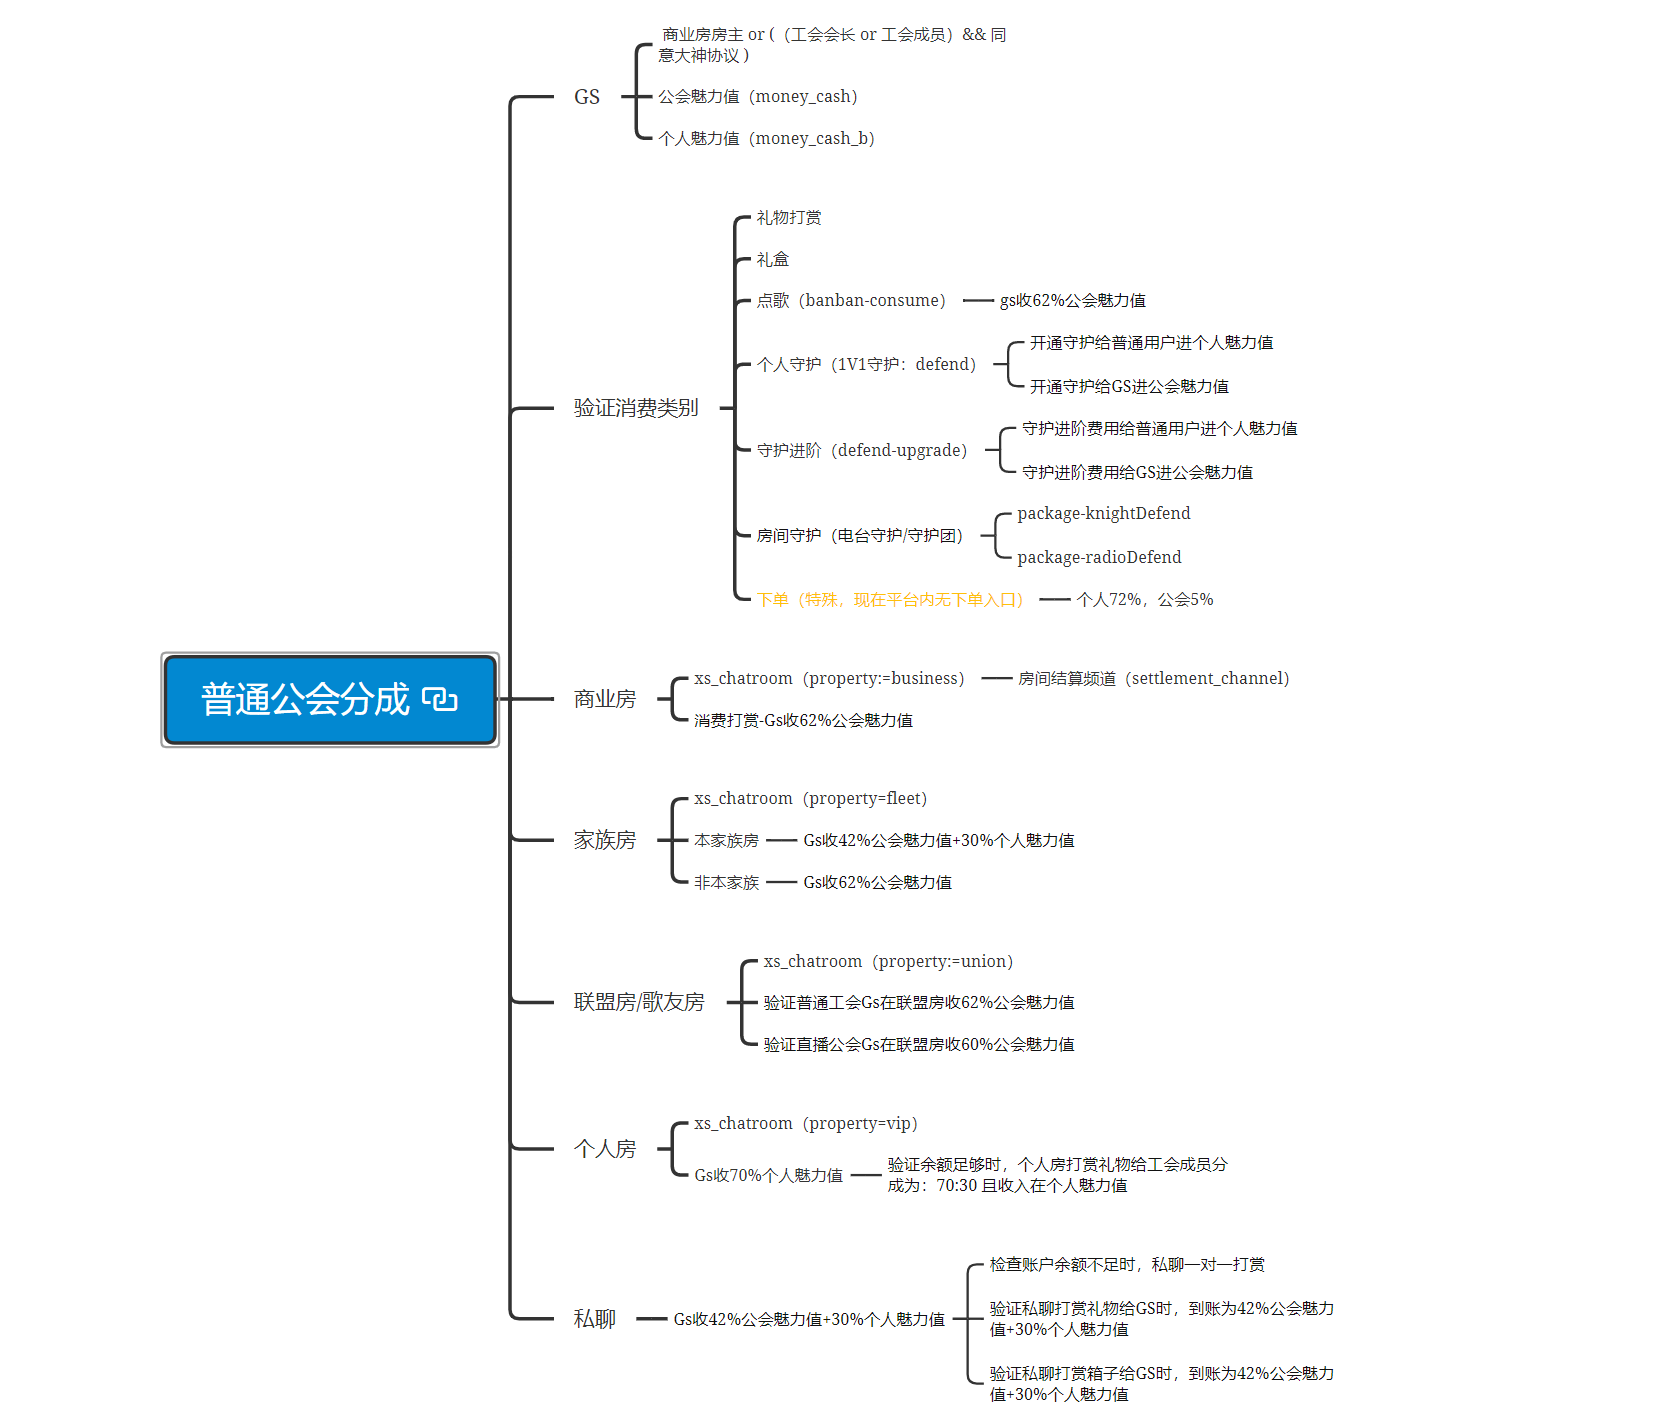
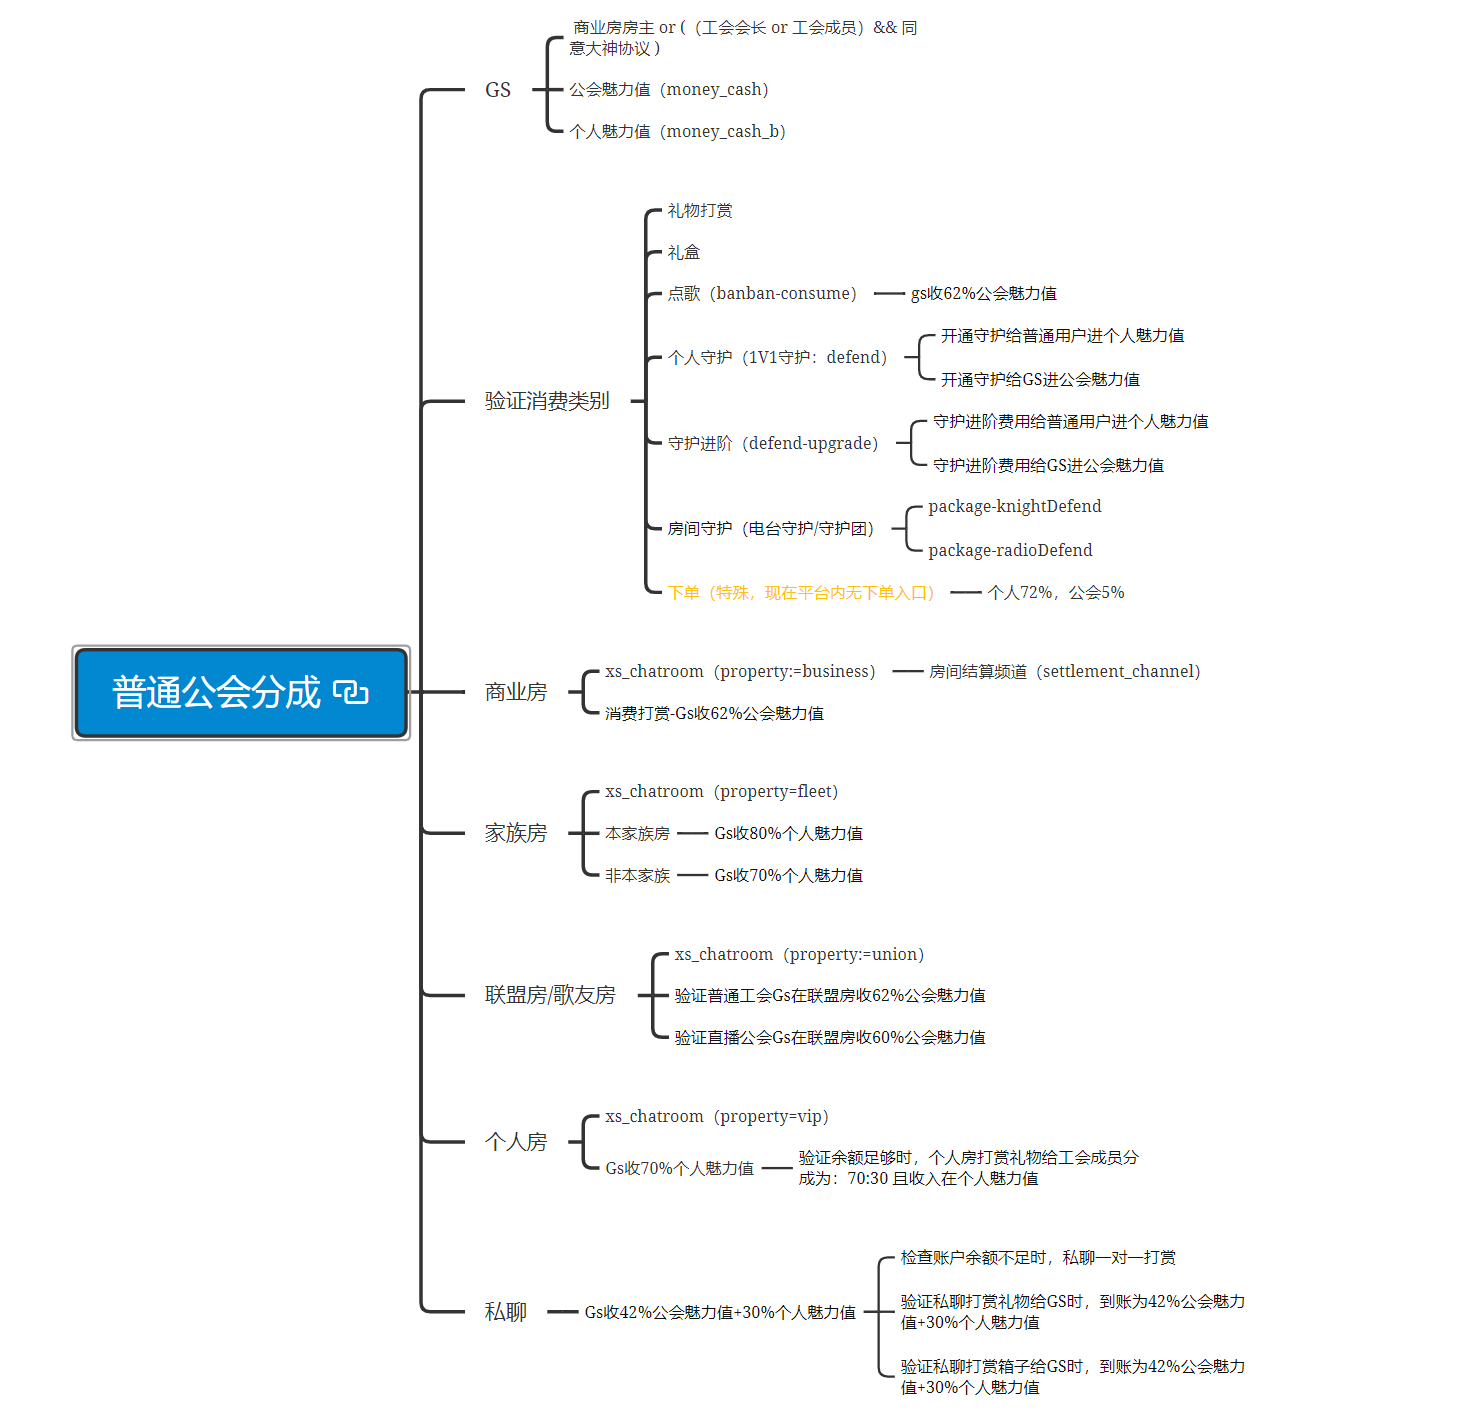
'分成体系优化'

Changed region(s): [[0.0308, 0.0, 0.8624, 0.9951], [0.3388, 0.7774, 0.77, 0.8396]]

diff --git a/case/test_pay_fleetRoom.py b/case/test_pay_fleetRoom.py
@@ -16,16 +16,15 @@ class TestPayCreate(unittest.TestCase):
     fleet_rid = config.bb_user['fleetRid']  # 本家族房
     pack_cal_uid = config.bb_user['pack_cal_uid']  # 直播公会gs
 
-    @unittest.skip
     def test_01_sameFleetRoomLiveGsRate(self, des='家族房打赏直播公会gs场景'):
         """
         用例描述：
-        tdr：同家族房内直播公会成员礼物打赏到账70%个人魅力值
+        tdr：同家族房内直播公会成员礼物打赏到账80%个人魅力值
         脚本步骤：
         1.构造打赏者和被打赏者数据
         2.房间打赏（打赏1000分）
         3.校验接口状态和返回值数据
-        4.检查被打赏者余额，预期为：1000 * 0.7 = 700(money_cash_b)
+        4.检查被打赏者余额，预期为：1000 * 0.8 = 800(money_cash_b)
         5.检查打赏者余额，预期为：1000 - 1000 = 0
         """
         mysql.updateMoneySql(config.payUid, money=1000)
@@ -36,7 +35,7 @@ class TestPayCreate(unittest.TestCase):
         res = post_request_session(config.pay_url, data)
         assert_code(res['code'])
         assert_body(res['body'], 'success', 1, reason(des, res))
-        assert_equal(mysql.selectUserInfoSql('single_money', self.pack_cal_uid, money_type='money_cash_b'), 300)
+        assert_equal(mysql.selectUserInfoSql('single_money', self.pack_cal_uid), 800)
         assert_equal(mysql.selectUserInfoSql('sum_money', self.pack_cal_uid), 800)
         assert_equal(mysql.selectUserInfoSql('sum_money', config.payUid), 0)
         case_list_b[des] = result
@@ -61,7 +60,7 @@ class TestPayCreate(unittest.TestCase):
         res = post_request_session(config.pay_url, data)
         assert_code(res['code'])
         assert_body(res['body'], 'success', 1, reason(des, res))
-        assert_equal(mysql.selectUserInfoSql('single_money', self.pack_cal_uid, money_type='money_cash'), 700)
+        assert_equal(mysql.selectUserInfoSql('single_money', self.pack_cal_uid), 700)
         assert_equal(mysql.selectUserInfoSql('sum_money', self.pack_cal_uid), 700)
         assert_equal(mysql.selectUserInfoSql('sum_money', config.payUid), 0)
         case_list_b[des] = result
@@ -69,12 +68,12 @@ class TestPayCreate(unittest.TestCase):
     def test_03_sameFleetRoomNormalGsRate(self, des='家族房打赏普通公会gs场景'):
         """
         用例描述：
-        tdr：家族房内普通公会成员礼物打赏到账42%公会魅力值+30%个人魅力值
+        tdr：家族房内普通公会成员礼物打赏到账80%个人魅力值
          脚本步骤：
         1.构造打赏者和被打赏者数据
         2.房间打赏（打赏1000分）
         3.校验接口状态和返回值数据
-        4.检查被打赏者余额，预期为：1000 * 0.42 = 420(money_cash) + 1000 * 0.3 = 300（money_cash_b）
+        4.检查被打赏者余额，预期为：1000 * 0.8 = 800(money_cash_b)
         5.检查打赏者余额，预期为：1000 - 1000 = 0
         """
         mysql.updateMoneySql(config.payUid, money=1000)
@@ -85,22 +84,20 @@ class TestPayCreate(unittest.TestCase):
         res = post_request_session(config.pay_url, data)
         assert_code(res['code'])
         assert_body(res['body'], 'success', 1, reason(des, res))
-        assert_equal(mysql.selectUserInfoSql('single_money', config.gsUid,
-                                                money_type='money_cash'), 420)
-        assert_equal(mysql.selectUserInfoSql('single_money', config.gsUid), 300)
-        assert_equal(mysql.selectUserInfoSql('sum_money', config.gsUid), 720)
+        assert_equal(mysql.selectUserInfoSql('single_money', config.gsUid), 800)
+        assert_equal(mysql.selectUserInfoSql('sum_money', config.gsUid), 800)
         assert_equal(mysql.selectUserInfoSql('sum_money', config.payUid), 0)
         case_list_b[des] = result
 
     def test_04_otherFleetRoomNormalGsRate(self, des='非本家族房打赏公会GS场景'):
         """
         用例描述：
-        tdr：other家族房内GS收到箱子打赏拿62%公会魅力值
+        tdr：非家族房内GS收到箱子打赏拿80%个人魅力值
        脚本步骤：
         1.构造打赏者和被打赏者数据
         2.房间打赏（打赏铜箱子）
         3.校验接口状态和返回值数据
-        4.检查被打赏者余额，预期为不小于：300 * 0.62 = 186(money_cash)
+        4.检查被打赏者余额，预期为不小于：300 * 0.8 = 240(money_cash_b)
         5.检查打赏者余额，预期为：600 - 600 = 0
         """
         mysql.updateMoneySql(config.payUid, money=600)
@@ -115,8 +112,7 @@ class TestPayCreate(unittest.TestCase):
         assert_code(res['code'])
         assert_body(res['body'], 'success', 1, reason(des, res))
         assert_equal(mysql.selectUserInfoSql('sum_money', config.payUid), 0)
-        assert_len(mysql.selectUserInfoSql('single_money', config.gsUid,
-                                              money_type='money_cash'), 300 * config.rate)
+        assert_len(mysql.selectUserInfoSql('single_money', config.gsUid), 240)
         case_list_b[des] = result
 
     def test_05_sameFleetRoomPayNormalUser(self, des='家族房打赏一代用户场景'):

diff --git a/run_all_case.py b/run_all_case.py
@@ -130,7 +130,7 @@ def all_case(appInfo):
 
     testcase = unittest.TestSuite()
     discover = unittest.defaultTestLoader.discover(case_dir,  # 指定待执行用例的目录
-                                                   pattern="test_*.py",
+                                                   pattern="test_pay_fleetRoom.py",
                                                    top_level_dir=None)
     testcase.addTests(discover)
     return testcase
